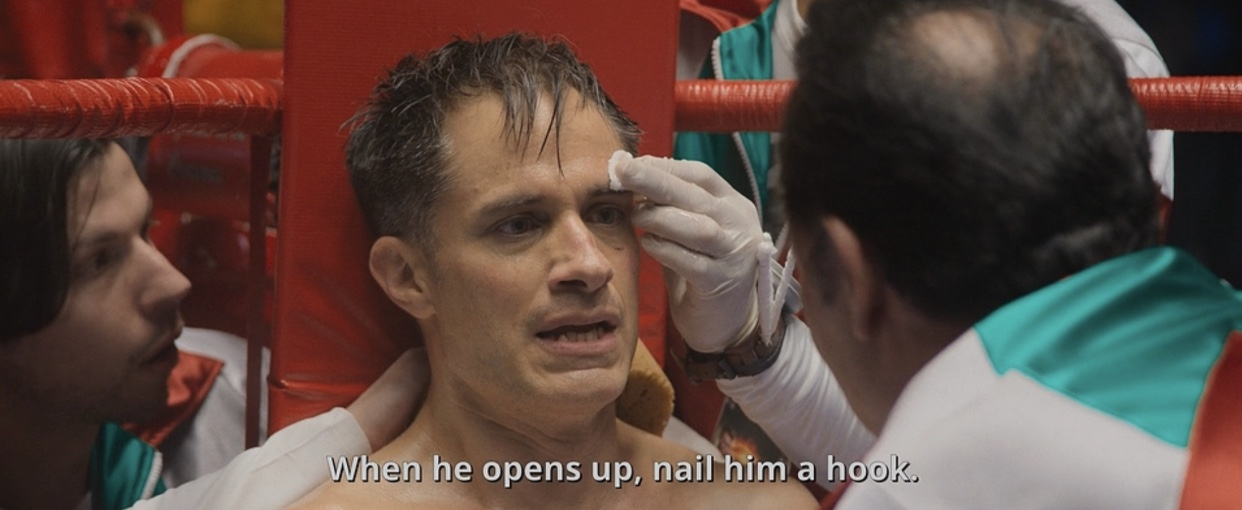
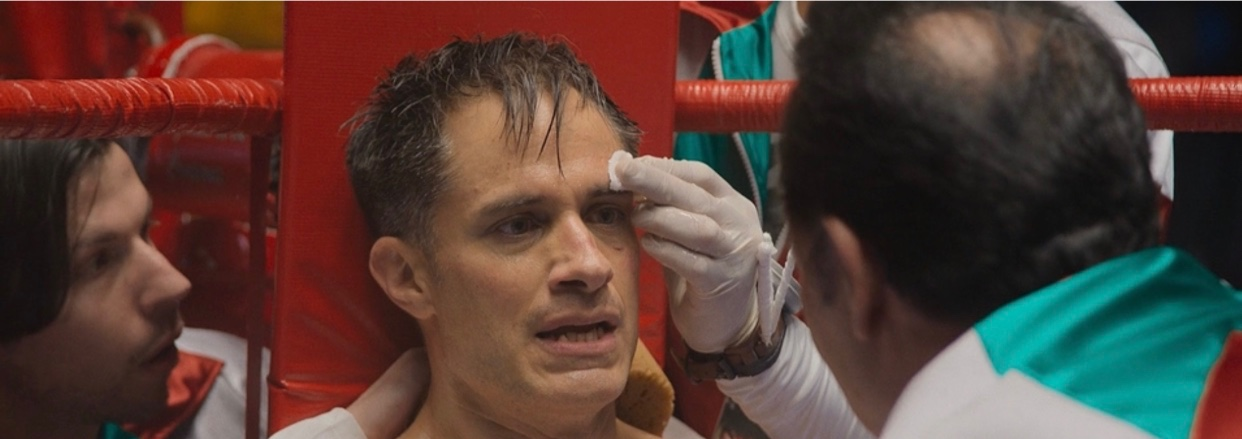
Per-character portrait fixes: cops contain, Devon/Wesley repositioned, several wider, #12 subtitle cropped

diff --git a/index.html b/index.html
@@ -361,6 +361,33 @@
     filter: grayscale(1) contrast(1.04);
     display: block;
   }
+
+  /* —— Per-character portrait overrides —— */
+  /* #07 cops: need both partners visible, use contain so neither gets cropped out */
+  #character-07 .portrait { background: var(--cream); }
+  #character-07 .portrait img { object-fit: contain; object-position: center; }
+
+  /* #09 Devon: shift visible window so subject moves right in frame */
+  #character-09 .portrait img { object-position: 25% 40%; }
+
+  /* #10 Wesley: subject sits to the right of source — anchor right edge */
+  #character-10 .portrait img { object-position: 80% 40%; }
+
+  /* #11 Pemwa: slightly wider — letterbox top/bottom but show more horizontal */
+  #character-11 .portrait { background: var(--cream); }
+  #character-11 .portrait img { object-fit: contain; object-position: center; }
+
+  /* #12 Sammy: wider (subtitle removed at source level) */
+  #character-12 .portrait { background: var(--cream); }
+  #character-12 .portrait img { object-fit: contain; object-position: center; }
+
+  /* #13 Jake: slightly wider */
+  #character-13 .portrait { background: var(--cream); }
+  #character-13 .portrait img { object-fit: contain; object-position: center; }
+
+  /* #14 Williamsons: wider */
+  #character-14 .portrait { background: var(--cream); }
+  #character-14 .portrait img { object-fit: contain; object-position: center; }
   .character-grid .bio h4 {
     font-family: var(--mono);
     font-weight: 700;
